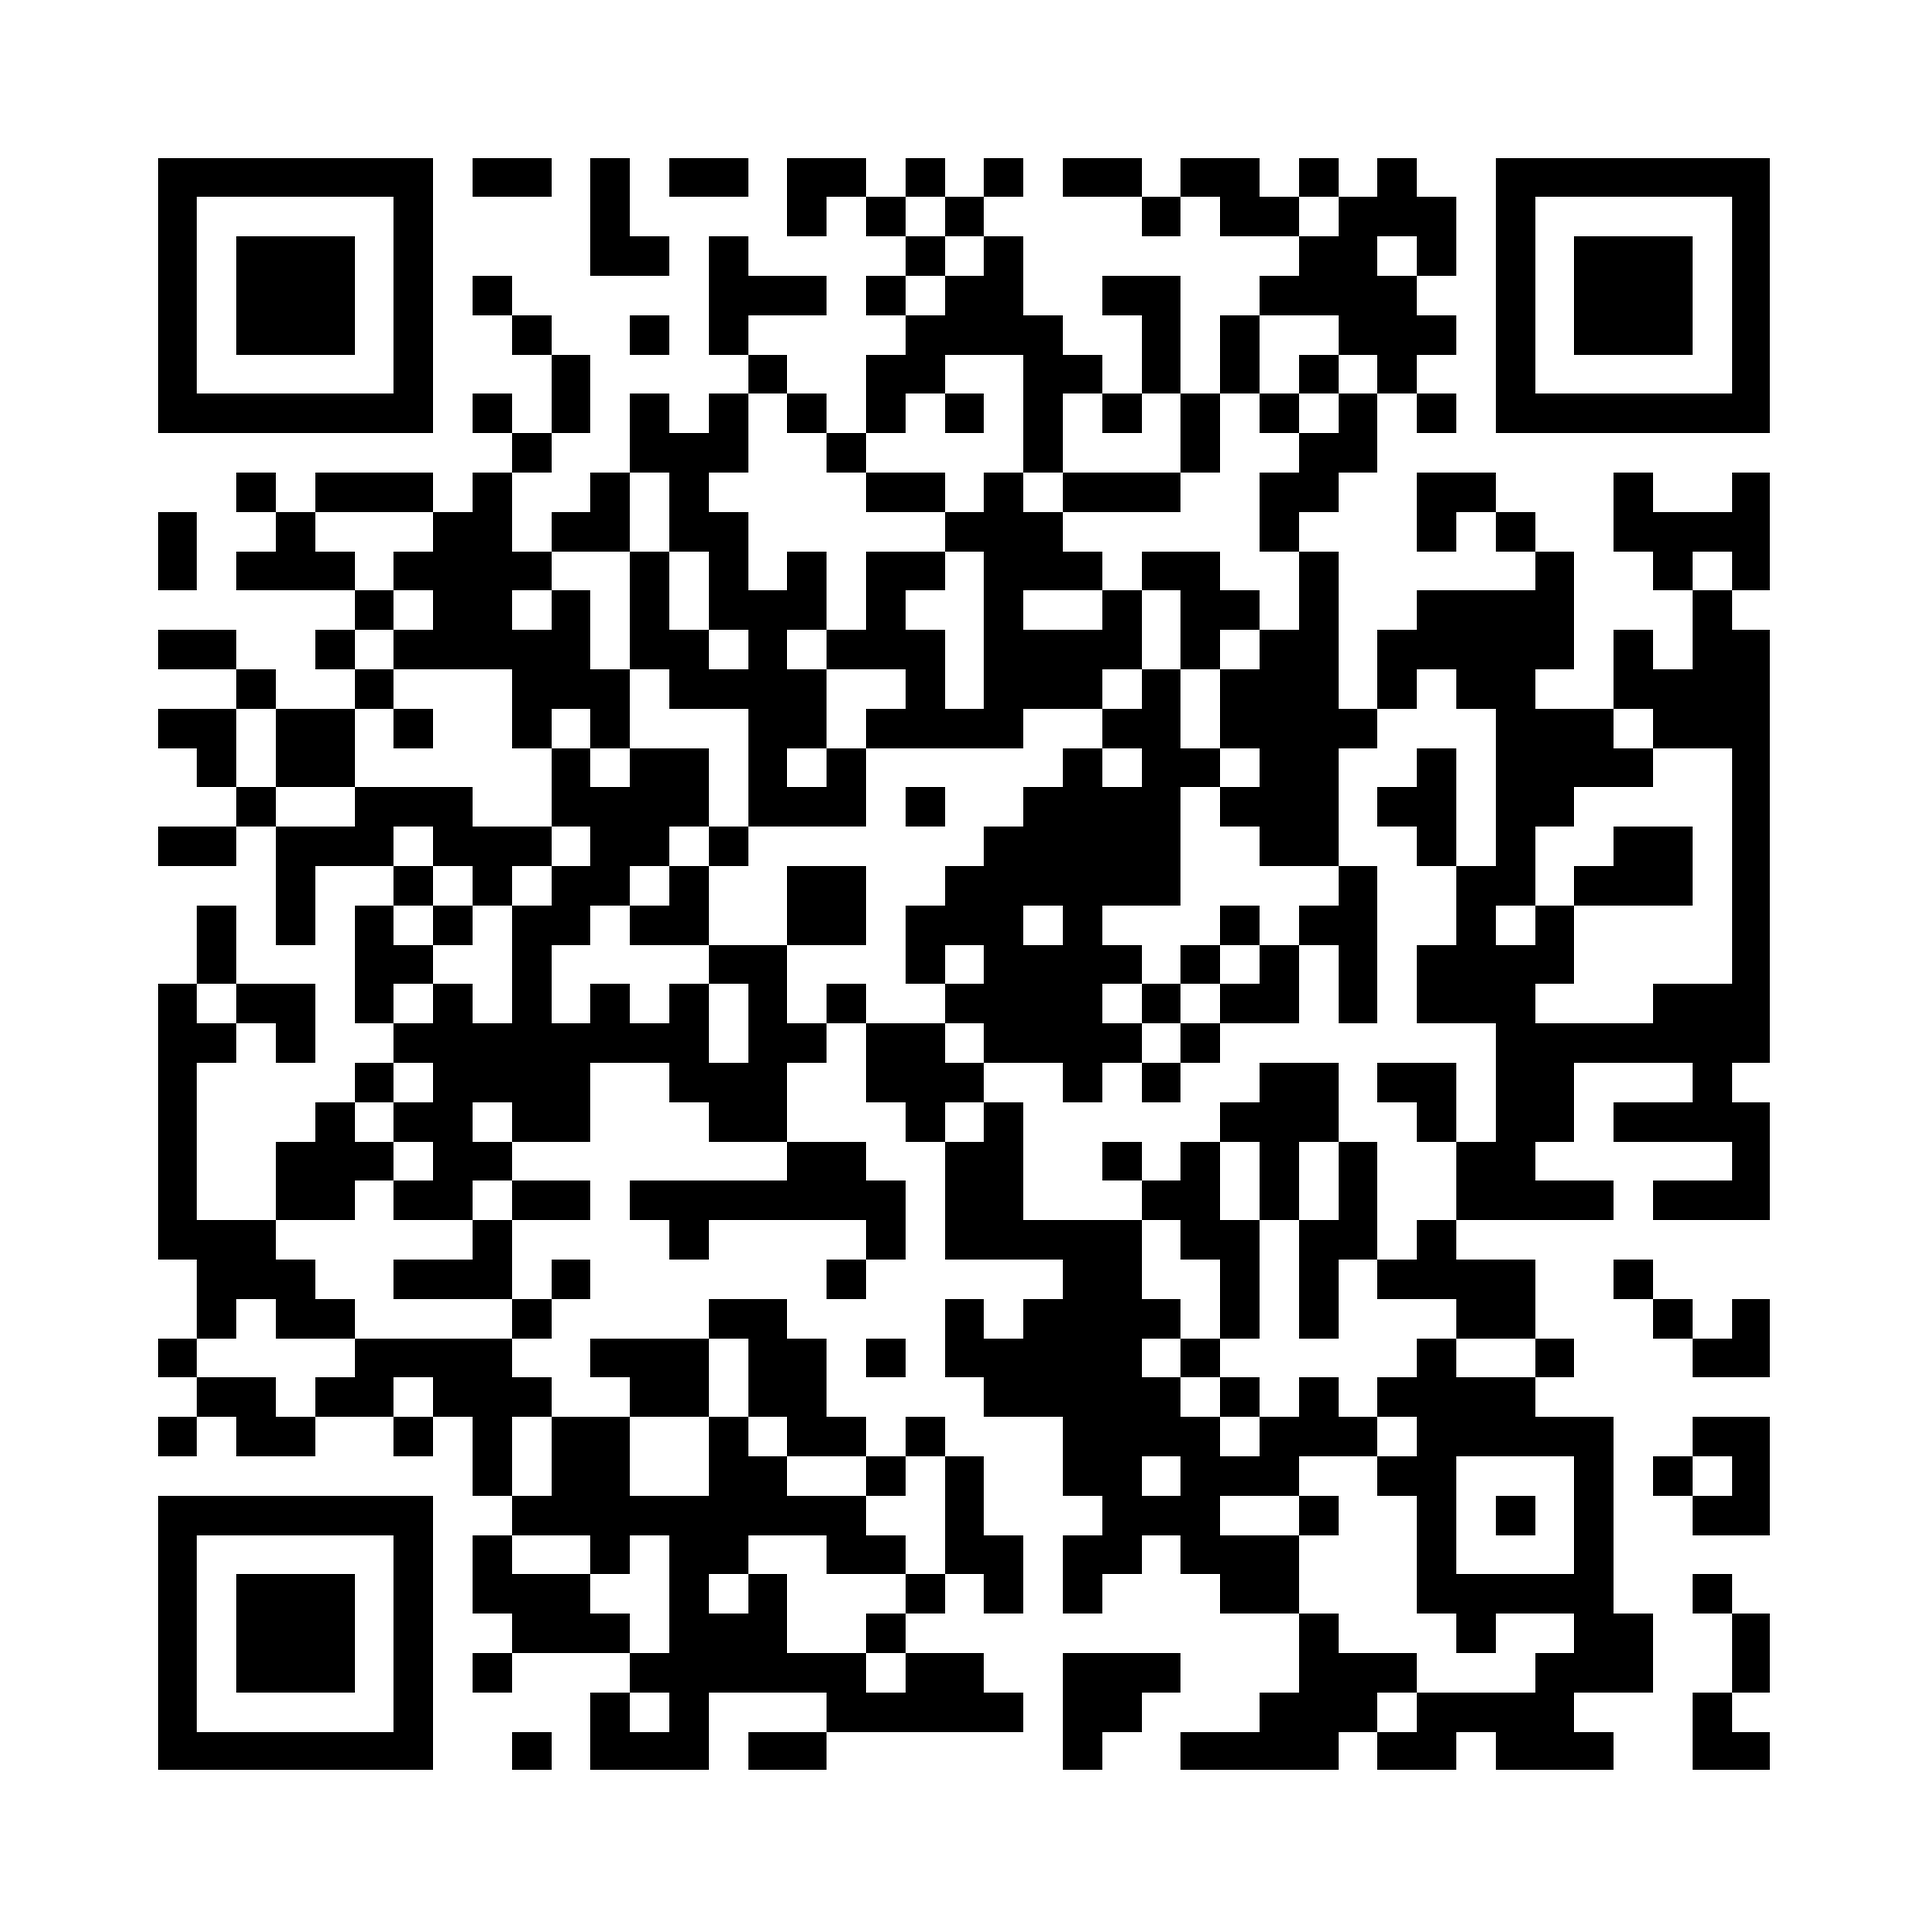
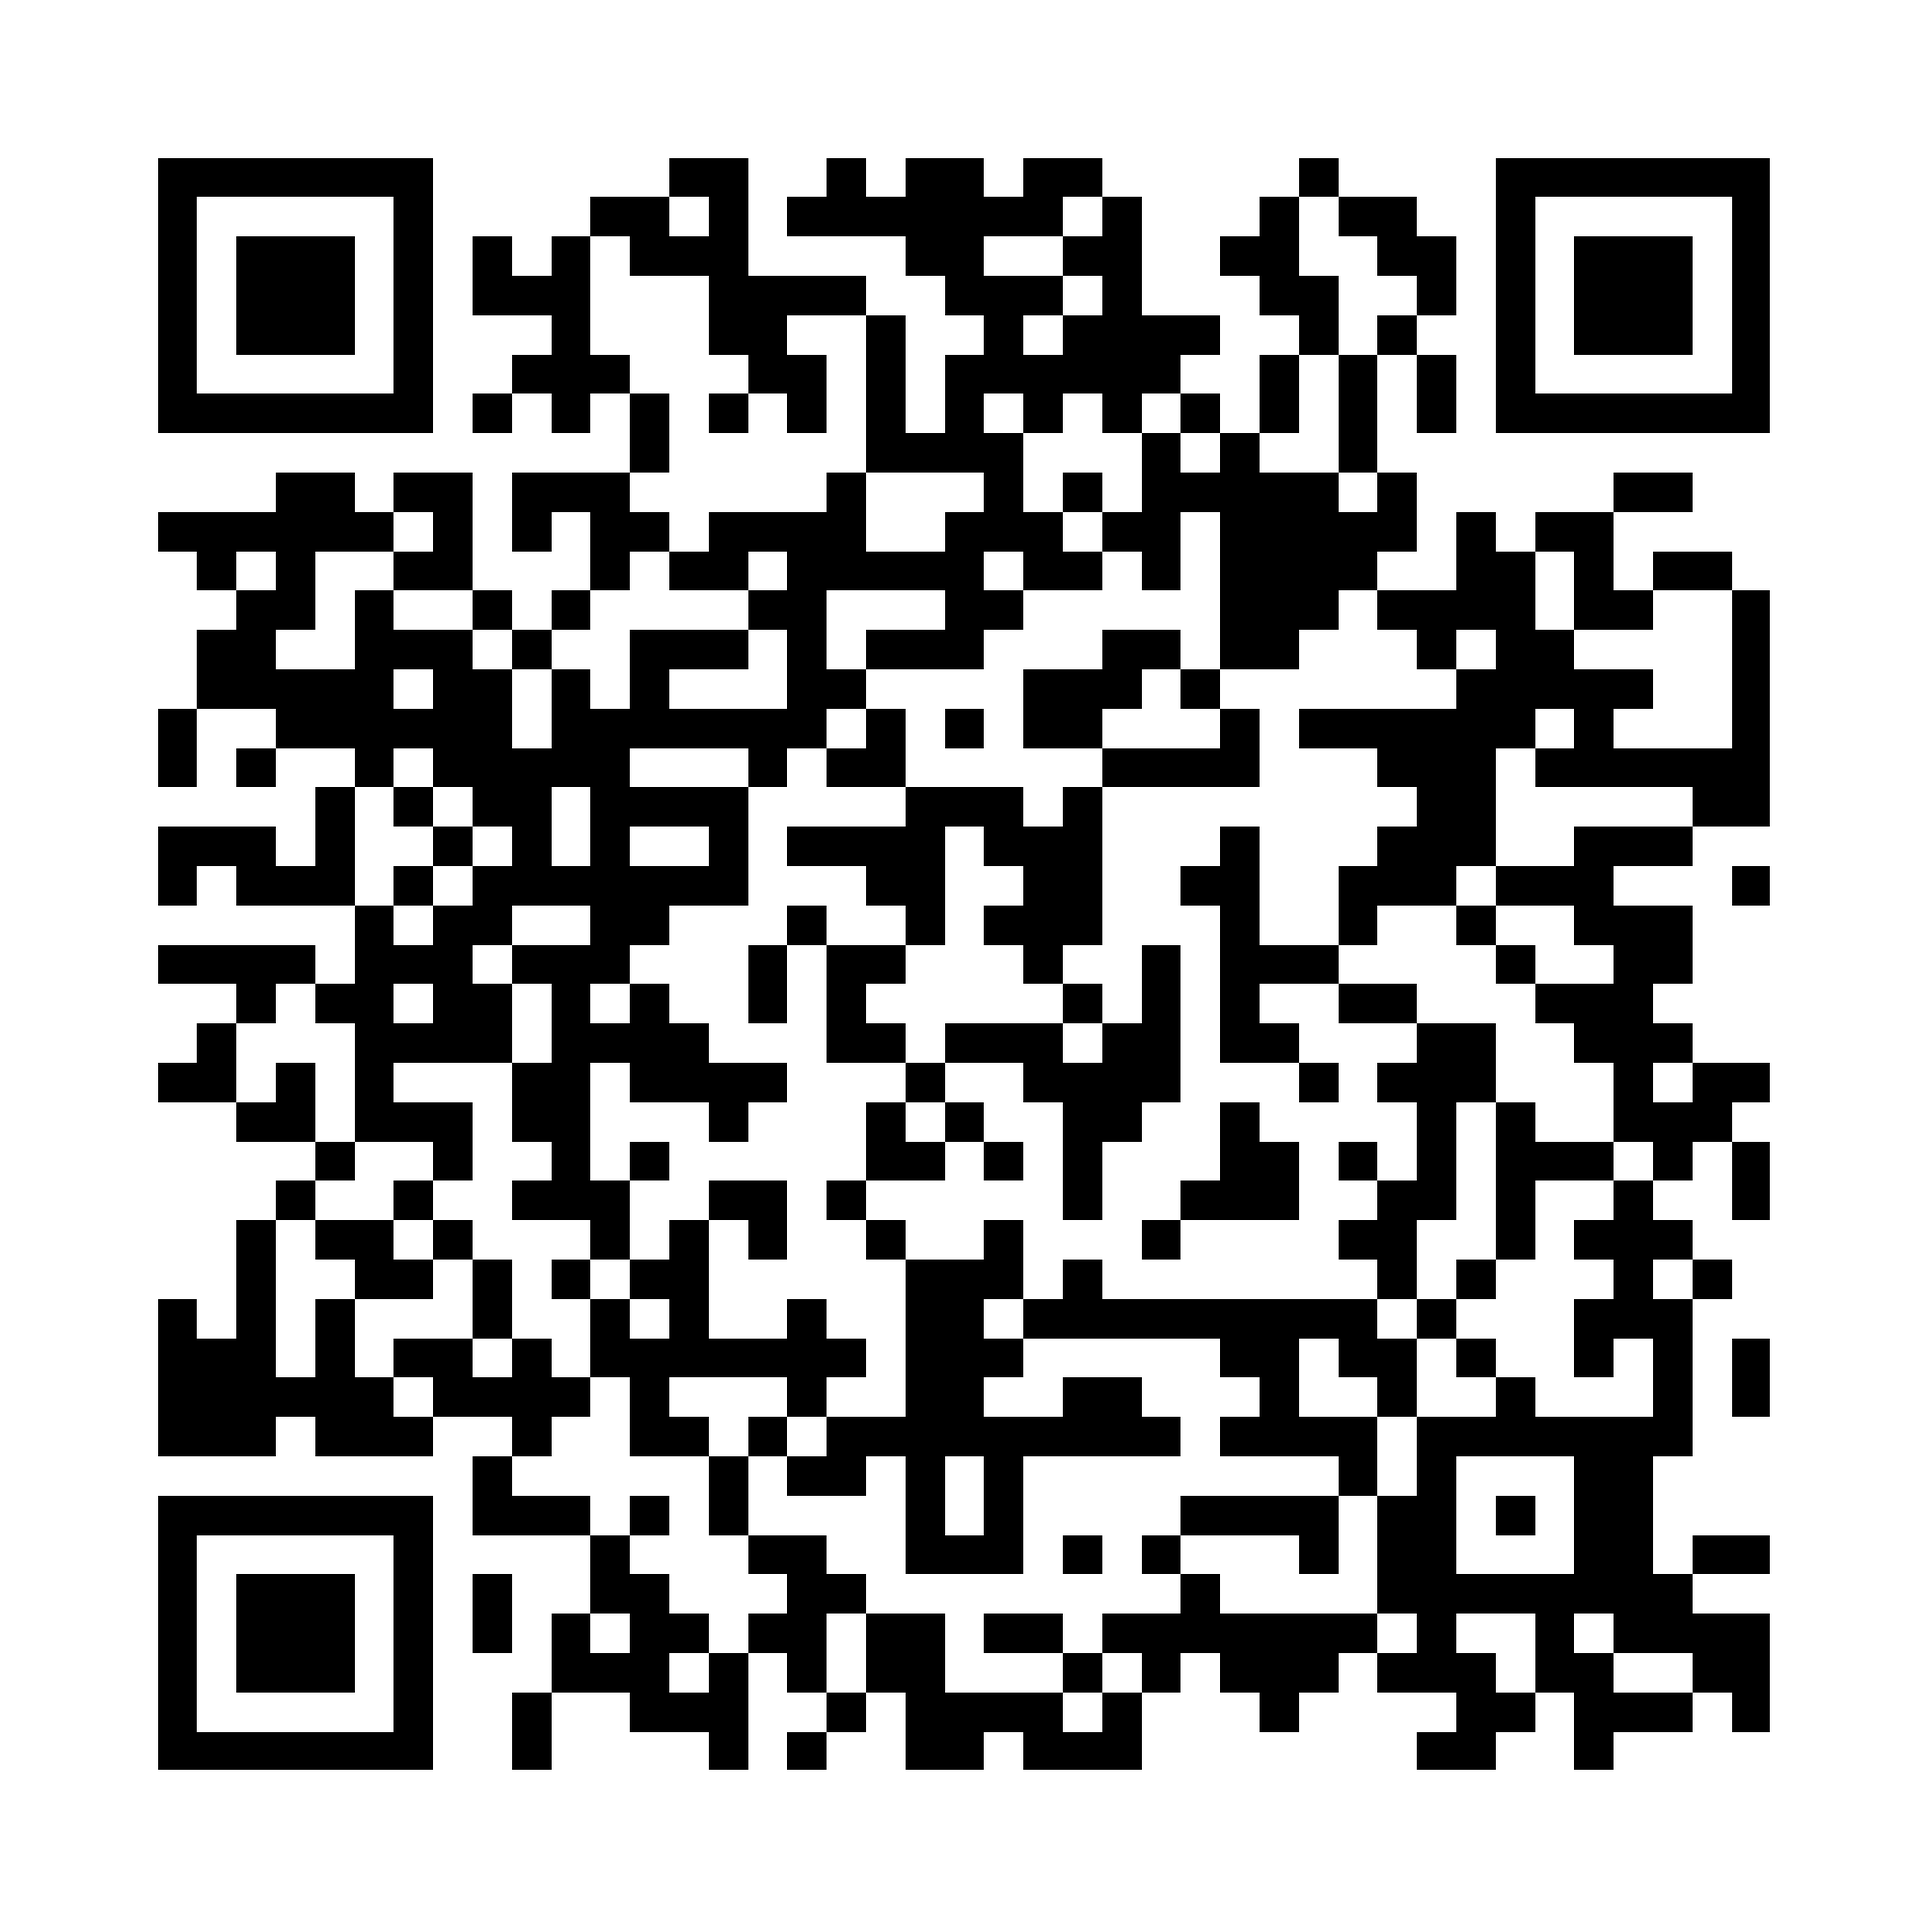
Move to bgols-limited.github.io: new QR codes, contact file, links
Claude-Session: https://claude.ai/code/session_01TprP1ieCAEd2tQhQxghHUL

diff --git a/index.html b/index.html
@@ -10,12 +10,12 @@
   <meta name="theme-color" content="#FFFFFF">
   <meta name="format-detection" content="telephone=no">
   <!-- build:meta (generated by scripts/build.mjs from js/config.js — do not edit by hand) -->
-  <link rel="canonical" href="https://alshams8.github.io/Business-Card-Amit-Sazed/">
+  <link rel="canonical" href="https://bgols-limited.github.io/Business-Card-Amit-Sazed/">
   <meta property="og:type" content="profile">
   <meta property="og:title" content="Amit Sazed | Head of Air Freight | B-GOLS Limited">
   <meta property="og:description" content="Tap. Connect. Save. Share. Digital business card of Amit Sazed, B-GOLS Limited.">
-  <meta property="og:url" content="https://alshams8.github.io/Business-Card-Amit-Sazed/">
-  <meta property="og:image" content="https://alshams8.github.io/Business-Card-Amit-Sazed/assets/exports/og-image.png">
+  <meta property="og:url" content="https://bgols-limited.github.io/Business-Card-Amit-Sazed/">
+  <meta property="og:image" content="https://bgols-limited.github.io/Business-Card-Amit-Sazed/assets/exports/og-image.png">
   <meta property="og:image:width" content="1200">
   <meta property="og:image:height" content="630">
   <meta name="twitter:card" content="summary_large_image">

diff --git a/sw.js b/sw.js
@@ -1,9 +1,9 @@
 /* Service worker: makes the card open instantly and work offline.
    Bump VERSION whenever you change any file so phones fetch the update. */
-// Cache names carry this card's own prefix: two cards share the alshams8.github.io origin,
+// Cache names carry this card's own prefix: two cards share the bgols-limited.github.io origin,
 // so each card must only ever delete its own old caches.
 const PREFIX = "amit-card-";
-const VERSION = PREFIX + "v9";
+const VERSION = PREFIX + "v10";
 const CORE = [
   "./", "index.html", "card.html", "nfc-setup.html", "email-signature.html", "css/styles.css", "js/config.js", "js/app.js", "contact.vcf",
   "manifest.webmanifest",

diff --git a/js/config.js b/js/config.js
@@ -6,9 +6,9 @@
  * That regenerates the QR codes, the .vcf contact file and the link-preview tags
  * so the NFC tag, QR code and contact file all point to the same address.
  *
- * GitHub Pages address of the repository alshams8/Business-Card-Amit-Sazed.
+ * GitHub Pages address of the repository bgols-limited/Business-Card-Amit-Sazed.
  * (The path is case-sensitive: keep the capital letters.)
  */
 window.CARD_CONFIG = {
-  PROFILE_URL: "https://alshams8.github.io/Business-Card-Amit-Sazed/"
+  PROFILE_URL: "https://bgols-limited.github.io/Business-Card-Amit-Sazed/"
 };

diff --git a/docs/IPHONE-GUIDE.md b/docs/IPHONE-GUIDE.md
@@ -1,6 +1,6 @@
 # Amit Sazed's card on iPhone: step-by-step guide
 
-Card address: **https://alshams8.github.io/Business-Card-Amit-Sazed/**
+Card address: **https://bgols-limited.github.io/Business-Card-Amit-Sazed/**
 (Keep the capital letters. The NFC tag, the QR code and the contact file all point here.)
 
 ## Quick answer: what works iPhone to iPhone
@@ -18,7 +18,7 @@ on iPhone means **NameDrop**, and "tap my card" means a cheap **NFC tag**.
 
 ## 1. Save the card and make it Amit's own "My Card" (once, 3 minutes)
 
-1. On Amit's iPhone, open **https://alshams8.github.io/Business-Card-Amit-Sazed/** in Safari.
+1. On Amit's iPhone, open **https://bgols-limited.github.io/Business-Card-Amit-Sazed/** in Safari.
 2. Tap **Save Contact**, then **Create New Contact**, then **Done**.
 3. Open **Settings › Apps › Contacts › My Info** (on iOS 17: **Settings › Contacts › My Info**) and choose **Amit Sazed**.
 4. Open the **Contacts** app, tap **My Card** at the top, then **Contact Photo & Poster** to set up the photo and poster other iPhones will see.
@@ -47,7 +47,7 @@ NameDrop sends only the name, chosen numbers or emails, and the Contact Poster. 
 1. Open the card in Safari, tap the **Share** button in Safari, then **Add to Home Screen**, then **Add**.
    The card now opens like an app, also offline.
 2. Optional, fastest: show the QR without unlocking menus.
-   - Open the **Shortcuts** app › **+** › **Add Action** › **Open URLs** › enter **https://alshams8.github.io/Business-Card-Amit-Sazed/#qr** › name it "My QR".
+   - Open the **Shortcuts** app › **+** › **Add Action** › **Open URLs** › enter **https://bgols-limited.github.io/Business-Card-Amit-Sazed/#qr** › name it "My QR".
    - Then **Settings › Accessibility › Touch › Back Tap › Double Tap** › choose **My QR**.
      Now a double tap on the back of the iPhone opens the card already flipped to the QR side.
    - iPhone 15 Pro or newer: you can put the same shortcut on the **Action button** instead
@@ -57,7 +57,7 @@ NameDrop sends only the name, chosen numbers or emails, and the Contact Poster. 
 
 1. Buy blank **NTAG215** cards or **NTAG213** stickers (any phone accessory shop or online).
 2. On the iPhone, install **NFC Tools** (by wakdev) from the App Store.
-3. In NFC Tools: **Write › Add a record › URL / URI** › paste **https://alshams8.github.io/Business-Card-Amit-Sazed/** › **OK** › **Write**,
+3. In NFC Tools: **Write › Add a record › URL / URI** › paste **https://bgols-limited.github.io/Business-Card-Amit-Sazed/** › **OK** › **Write**,
    then hold the **top edge** of the iPhone against the tag.
 4. Test: tap the tag with another phone. A banner appears; tap it to open the card.
 5. When it works, lock it: NFC Tools › **Other › Lock tag** (permanent).

diff --git a/docs/DEPLOYMENT.md b/docs/DEPLOYMENT.md
@@ -5,10 +5,10 @@ The card is a folder of static files. Any HTTPS static host works. The address y
 
 ## Option 1: GitHub Pages (free, fastest)
 
-1. Public repository on GitHub: `alshams8/Business-Card-Amit-Sazed`.
+1. Public repository on GitHub: `bgols-limited/Business-Card-Amit-Sazed`.
 2. Upload the contents of this folder (or `git push`). `node_modules/` is not needed.
 3. Repository → **Settings → Pages** → Source: *Deploy from a branch* → Branch `main`, folder `/ (root)` → Save.
-4. After ~1 minute the site is at `https://alshams8.github.io/Business-Card-Amit-Sazed/`, the address
+4. After ~1 minute the site is at `https://bgols-limited.github.io/Business-Card-Amit-Sazed/`, the address
    already in `js/config.js`, so nothing needs regenerating.
 5. Tick **Enforce HTTPS** (on by default for `github.io`).
 
@@ -26,7 +26,7 @@ It needs B-GOLS IT (whoever manages the `bgols.com` DNS):
 
 1. Host the folder on any of the options above, inside a sub-folder `amit/`
    (e.g. repository `card`, files in `amit/`).
-2. DNS: add a **CNAME** record `card` → `alshams8.github.io` (GitHub) or the Netlify/Cloudflare target.
+2. DNS: add a **CNAME** record `card` → `bgols-limited.github.io` (GitHub) or the Netlify/Cloudflare target.
 3. GitHub Pages: Settings → Pages → *Custom domain* `card.bgols.com` → wait for the certificate → *Enforce HTTPS*.
 4. Open `https://card.bgols.com/amit/` in a browser and check the padlock **before** writing tags.
 5. Set `PROFILE_URL` to `https://card.bgols.com/amit/`, run the build, redeploy.

diff --git a/README.md b/README.md
@@ -3,7 +3,7 @@
 **TAP. CONNECT. SAVE. SHARE.**
 Head of Air Freight | B-GOLS Limited
 
-Live at **https://alshams8.github.io/Business-Card-Amit-Sazed/** (GitHub Pages, branch `main`, folder `/`).
+Live at **https://bgols-limited.github.io/Business-Card-Amit-Sazed/** (GitHub Pages, branch `main`, folder `/`).
 iPhone sharing (NameDrop, AirDrop, QR, NFC tag): see [`docs/IPHONE-GUIDE.md`](docs/IPHONE-GUIDE.md).
 
 A lightweight, installable web app (PWA) that works as a digital business card. One permanent
@@ -11,7 +11,7 @@ HTTPS address is shared four ways: an **NFC tag**, a **QR code**, a **link**, an
 **native share sheet**. Visitors can call, WhatsApp, WeChat, open the company website, get directions and
 **save the contact (.vcf)**. No app, login, tracking or data collection.
 
-> Built from the same template as https://alshams8.github.io/digital-card/ .
+> Built from the same template as https://bgols-limited.github.io/digital-card/ .
 > `js/config.js` holds the address. After changing it, run `node scripts/build.mjs`.
 
 ---

diff --git a/docs/TEST-REPORT.md b/docs/TEST-REPORT.md
@@ -10,7 +10,7 @@ Tested in headless Chromium with the iPhone 13 profile (390 × 844, touch) again
 | WhatsApp link `wa.me/8801886813699` | Pass |
 | WeChat sheet (quick button and contact row) shows +8801886813699 | Pass |
 | `#qr` opens the card on the QR side; plain address opens the front | Pass |
-| QR codes (SVG/PNG, printed card back, portrait card back) decode to `https://alshams8.github.io/Business-Card-Amit-Sazed/` | Pass (zxing-cpp) |
+| QR codes (SVG/PNG, printed card back, portrait card back) decode to `https://bgols-limited.github.io/Business-Card-Amit-Sazed/` | Pass (zxing-cpp) |
 | `contact.vcf`: vCard 3.0, CRLF, lines ≤ 75 octets, two mobile numbers, embedded 256 px photo | Pass |
 | card.html, nfc-setup.html, email-signature.html, manifest, sw.js load | Pass |
 
